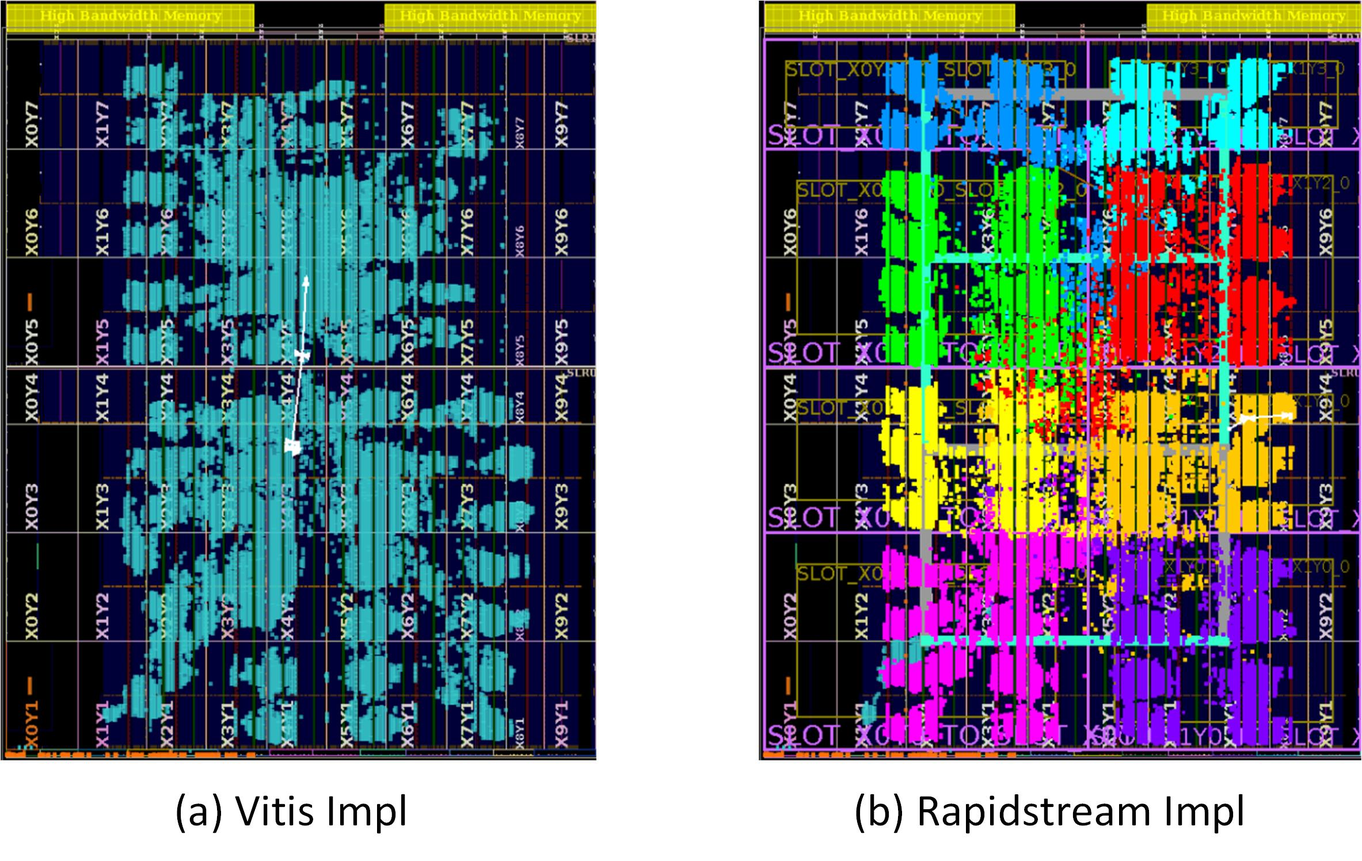
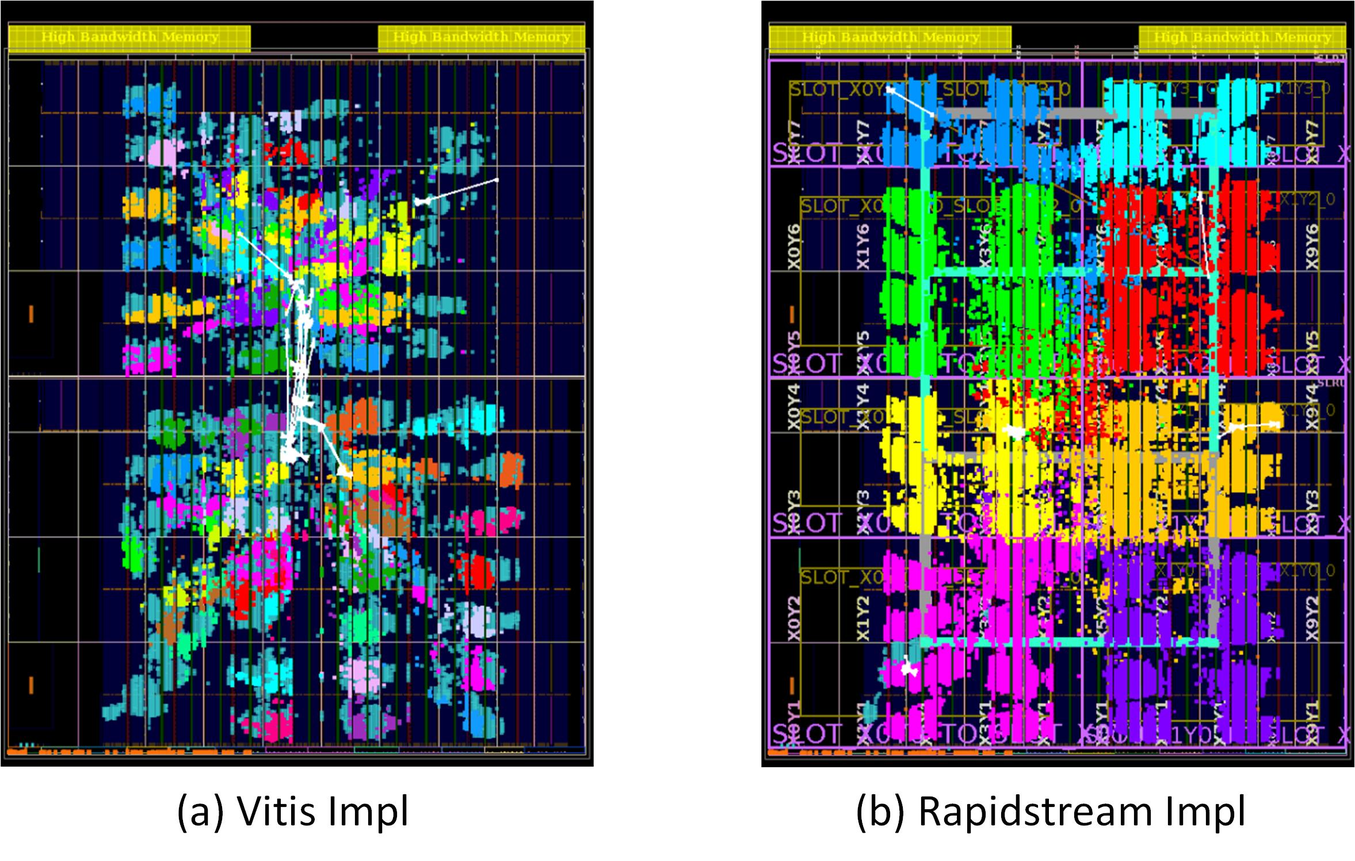
feat(tapa/bandwidth52): highlight the top 10 critical paths

diff --git a/benchmarks/tapa_flow/bandwidth52/README.md b/benchmarks/tapa_flow/bandwidth52/README.md
@@ -137,9 +137,10 @@ After the implementation, you'll notice a slack of -0.288 ns against the 3.333 n
 
 ### Step 7: Compasison between Vitis and Rapidstream.
 
-Upon examining the post-route `ext_platform_wrapper_routed.dcp`, we observe that the critical path is
-constrained by the cross-SLR long path. In contrast, RapidStream can confine the critical path within
-a localized area, improving efficiency.
+Upon reviewing the post-route `ext_platform_wrapper_routed.dcp`, we have identified the top
+10 critical paths, as highlighted in the figures below. Notably, these paths are constrained by
+cross-SLR long routes. In contrast, RapidStream optimizes efficiency by confining the critical path
+to a localized area.
 
 <img src="../../../common/img/vhk158_vitis_rs.jpg" width="800px" alt="Impl Comparison"/>
 
